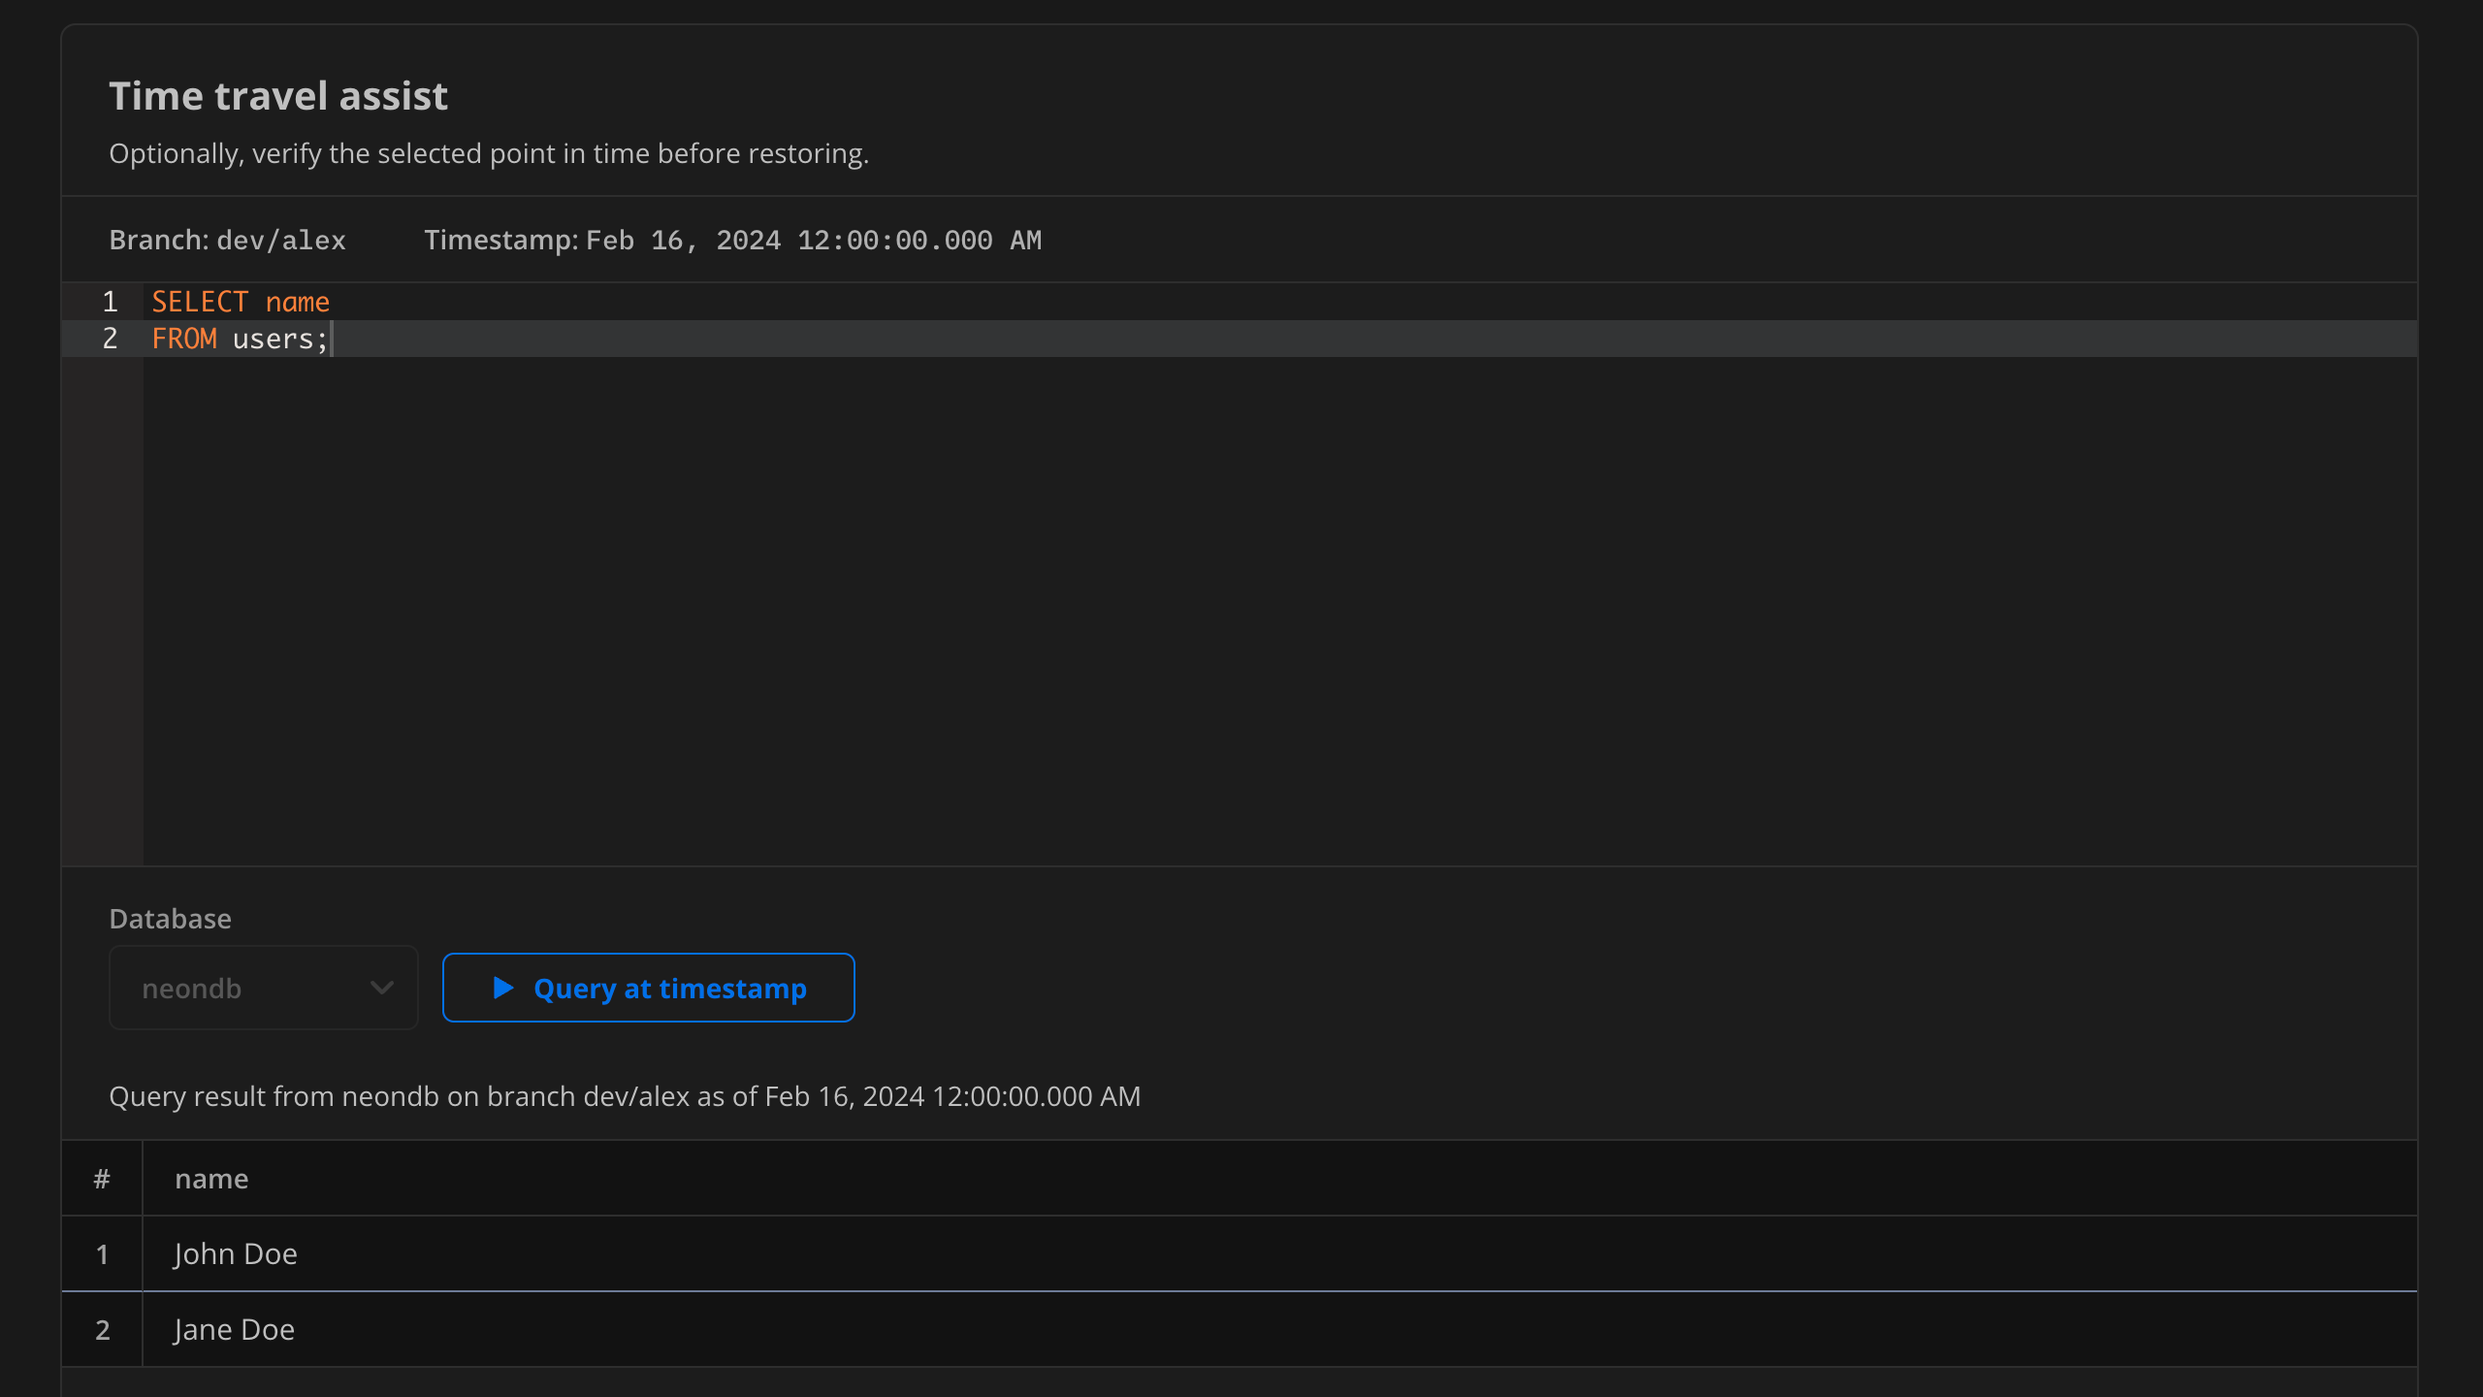
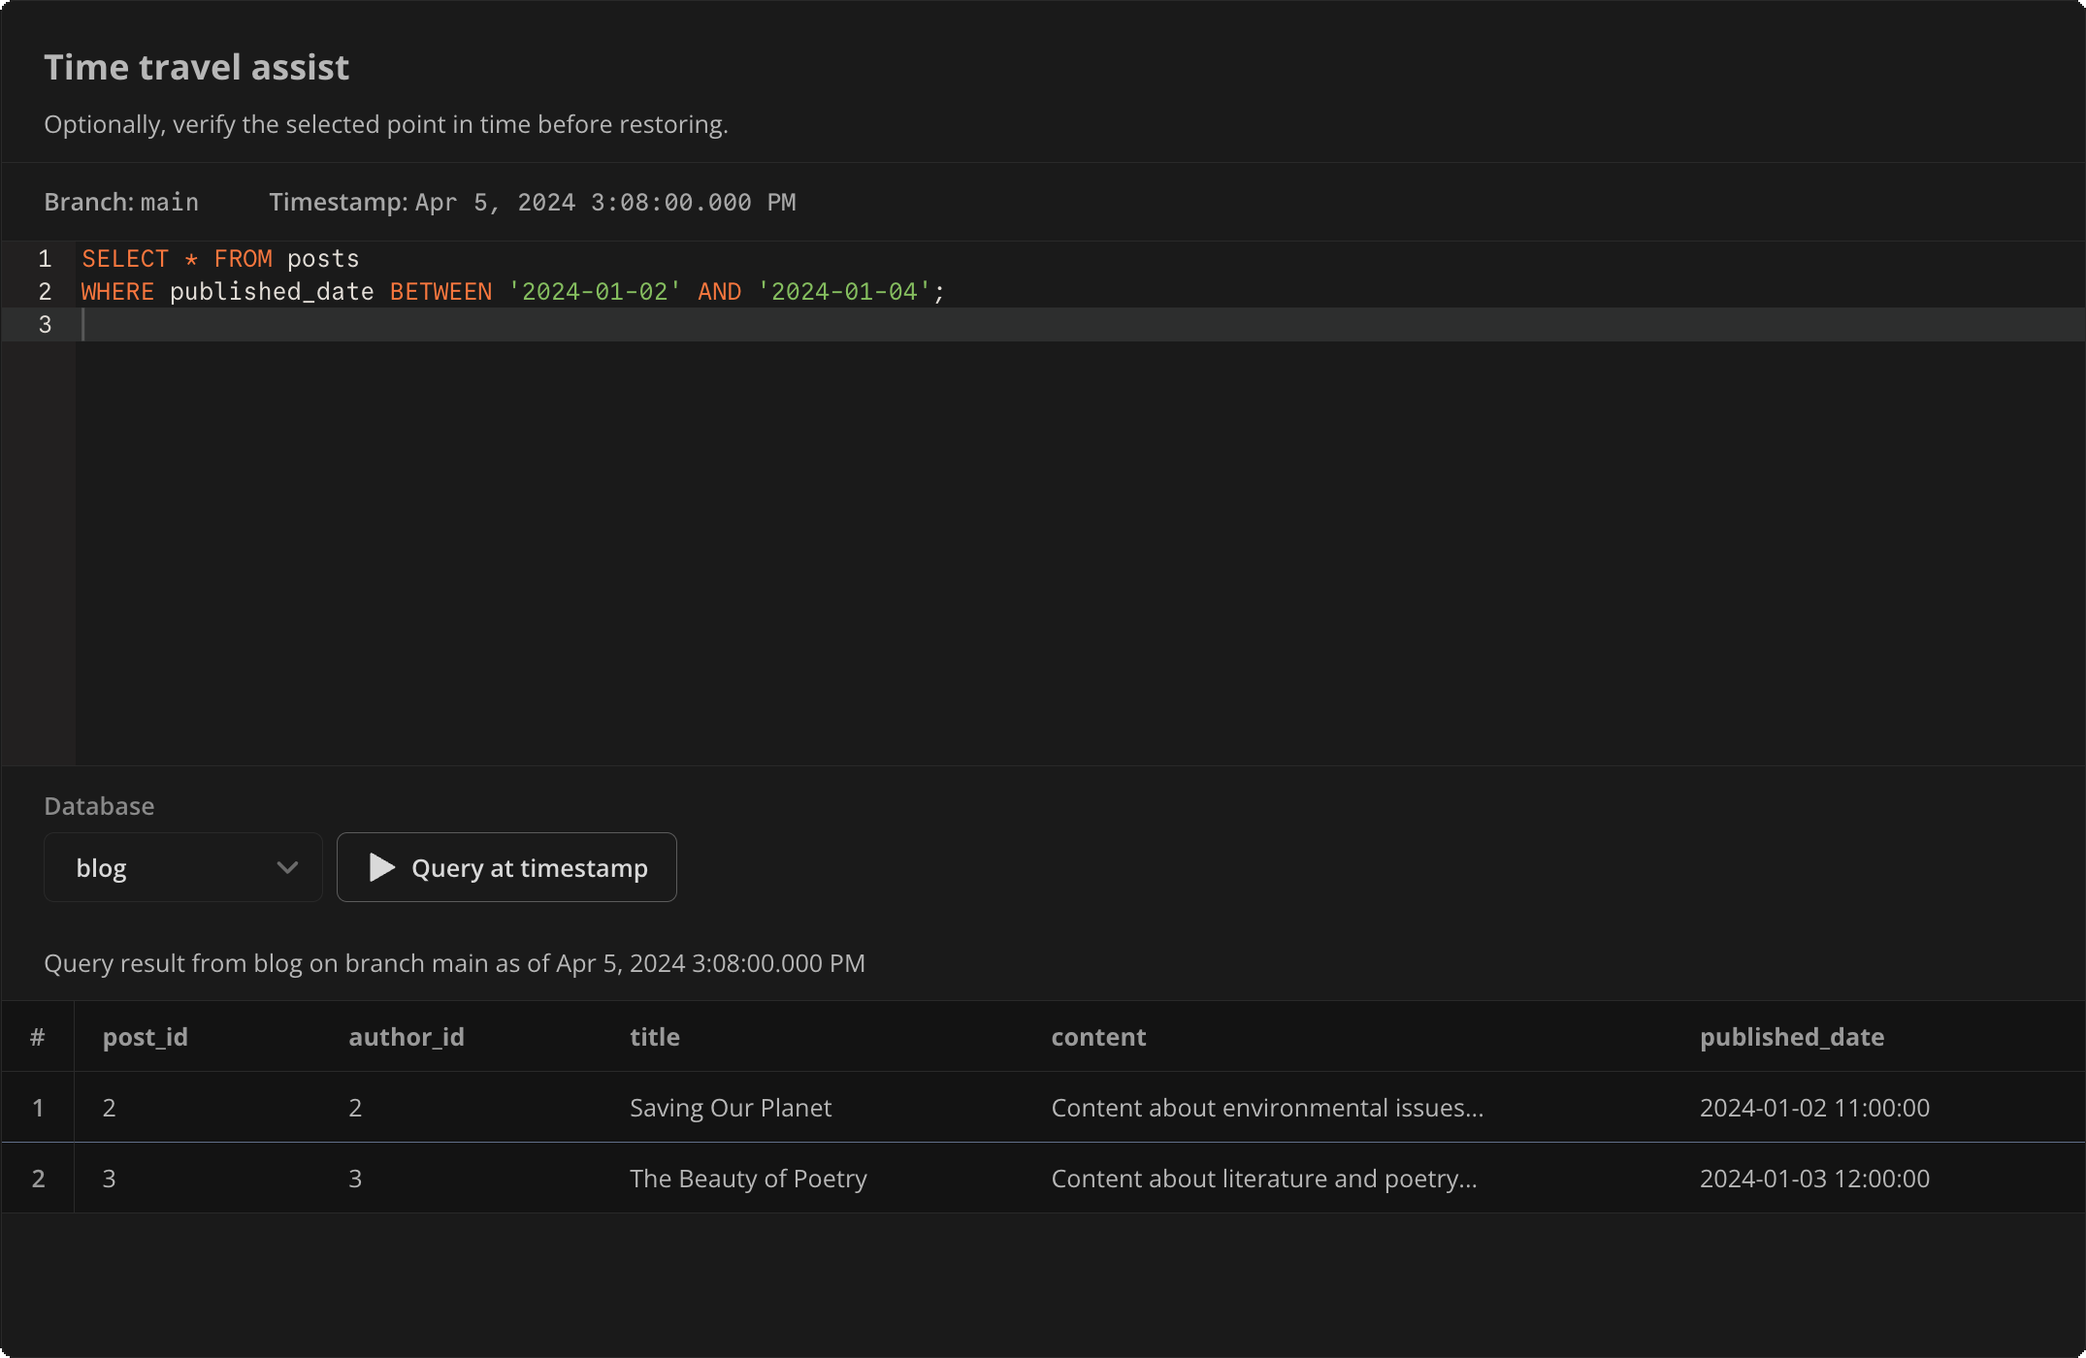
docs: time travel assist
Added time travel via SQL Editor.

diff --git a/content/docs/guides/time-travel-assist.md b/content/docs/guides/time-travel-assist.md
@@ -4,24 +4,16 @@ subtitle: Learn how to query point-in-time connections against your data's histo
 enableTableOfContents: true
 ---
 
-To help troubleshoot your data's history, you can use Time Travel Assist to connect to any selected point in time within your history retention window and then run queries against that connection. 
+To help troubleshoot your data's history, Time Travel Assist lets you connect to any selected point in time within your history retention window and then run queries against that connection.
 
 You can use Time Travel Assist from two places in the Neon Console:
 
 - **SQL Editor** &#8212; Time Travel is built into the SQL editor letting you switch between queries of your current data and previous iterations of your data in the same view.
-- **Restore** &#8212; Time Travel Assist is also built into the Branch Restore flow where it can help you make sure ou've targeted the correct restore point before you restore a branch.
+- **Restore** &#8212; Time Travel Assist is also built into the Branch Restore flow where it can help you make sure you've targeted the correct restore point before you restore a branch.
 
 ## How Time Travel Assist works
 
-It's a good idea to run this kind of query to make sure you've targeted the correct restore point before you restore a branch.
-
-The restore operation and Time Travel Assist are meant to work together. When you select a branch and timestamp, you can either use that selection as your restore point or as the point in time connection to query against.
-
-![Time travel assist](/docs/guides/branch_time_travel.png)
-
-### Ephemeral endpoints
-
-Time travel assist leverages Neon's instant branching capability to create a temporary branch and compute endpoint at the selected point in time, which is automatically removed once you are done querying against this point-in-time connection. The compute endpoints are ephemeral: they are not listed on the **Branches** page or in a CLI or API list branches request.
+Time Travel Assist leverages Neon's instant branching capability to create a temporary branch and compute endpoint at the selected point in time, which is automatically removed once you are done querying against this point-in-time connection. The compute endpoints are ephemeral: they are not listed on the **Branches** page or in a CLI or API list branches request.
 
 However, you can see the history of operations related to the creation and deletion of the ephemeral branch on the **Operations** page:
 
@@ -34,25 +26,91 @@ However, you can see the history of operations related to the creation and delet
 
 The ephemeral endpoints are created according to your configured [default compute size](/docs/manage/projects#reset-the-default-compute-size). An ephemeral endpoint remains active for as long as you keep running queries against it. After 10 seconds of inactivity, the timeline is deleted and the endpoint is removed.
 
-## Using Time Travel Assist
+### History retention
 
-Here is how to use the Time Travel Assist SQL editor:
+You are only able to run Time Travel queries that fall within your history retention window, which starts at 24 hours for Free Tier users and up to 30 days for Scale plan users.
 
+You are unable to select a time outside your current retention window.
+
+To change your retention period, see [Configure history retention](/docs/manage/projects#configure-history-retention).
+
+### Data integrity
+
+Time Travel Assist only allows non-destructive read-only queries. You cannot alter historical data in any way. If you try to run any query that could alter historical data, you will get an error message like the following:
+
+![time travel error message](/docs/guides/time_travel_error.png "no-border")
+
+### Time Travel with the SQL editor
+
+Time Travel in the SQL Editor offers a non-destructive way to explore your database's historical data through read-only queries. By toggling Time Travel in the editor, you switch from querying your current data to querying against a selected point within your history retention window.
+
+You can use this feature to help with scenarios like:
+
+- Investigating anomolies
+- Assessing the impact of new features
+- Troubleshooting
+- Compliance auditing
+
+Here's an example of a completed Time Travel query.
+
+![time travel from sql editor](/docs/guides/time_travel_sql.png)
+
+### Time Travel Assist with Branch Restore
+
+Time Travel Assist is also available from the **Restore** page, as part of the [Branch Restore](/docs/guides/branch-restore) feature. Before completing a restore operation, it's a good idea to use Time Travel Assist to verify that you've targetted the correct restore point.
+
+An SQL editor is built into the **Restore** page for this purpose. When you make your branch and timestamp selection to restore a branch, this selection can also be used as the point-in-time connection to query against.
+
+Here is an example of a completed query:
+
+![Time travel assist](/docs/guides/time_travel_assist.png)
+
+## How to use Time Travel Assist
+
+Here is how to use the Time Travel Assist from both the **SQL Editor** and from the **Restore** page:
+
+<Tabs labels={["SQL Editor","Branch Restore"]}>
+
+<TabItem>
+
+1. In the Neon Console, open the **SQL Editor**.
+1. Use the **Time Travel** toggle to enable querying against an earlier point in time.
+
+    ![Time Travel toggle](/docs/guides/time_travel_toggle.png)
+
+1. Use the Date & Time selector to choose a point within your history retention window.
+1. Write your read-only query in the editor, then click **Run**. You don't have to include time parameters in the query; the query is automatically targeted to your selected timestamp.
+</TabItem>
+
+<TabItem>
+
+1. In the Neon Console, go to **Restore**.
 1. Select the branch you want to query against, then select a timestamp, the same as you would to [Restore a branch](#restore-a-branch-to-an-earlier-state).
 
+    ![time travel selection](/docs/guides/time_travel_restore_select.png "no-border")
+
     This makes the selection for Time Travel Assist. Notice the updated fields above the SQL editor show the **branch** and **timestamp** you just selected.
-    ![Time travel assist](/docs/guides/time_travel_assist.png)
-  
+
+    ![Time travel assist](/docs/guides/time_travel_show_selected.png)
+
 1. Check that you have the right database selected to run your query against. Use the database selector under the SQL editor to switch to a different database for querying against.
+
+    ![time travel select db](/docs/guides/time_travel_db_select.png)
+
 1. Write your read-only query in the editor, then click **Query at timestamp** to run the query. You don't have to include time parameters in the query; the query is automatically targeted to your selected timestamp.
 
-If your query is successful, you will see a table of results under the editor.
+    If your query is successful, you will see a table of results under the editor.
 
-Depending on your query and the selected timestamp, instead of a table of results, you might see different error messages like:
-| Error                | Explanation             |
-|----------------------|-------------------------|
-| If you query a timestamp in the future         | Console request failed with 400 Bad Request: timestamp [timestamp] is in the future, try an older timestamp |
-| If you query a timestamp from before your project was created | Console request failed with 400 Bad Request: parent timestamp [timestamp] is earlier than the project creation timestamp [timestamp], try a more recent timestamp |
-| If you query from earlier than your history retention window | Console request failed with 400 Bad Request: timestamp [timestamp] recedes your project's history retention window of 168h0m0s, try a more recent timestamp |
+    ![time travel results](/docs/guides/time_travel_results.png)
 
-Adjust your selected timestamp accordingly.
+</TabItem>
+</Tabs>
+
+## Billing considerations
+
+The ephemeral endpoints used to run your Time Travel Assist queries do contribute to your consumption usage totals for the billing period, like any other active endpoint that consumes resources.
+
+A couple of details to note:
+
+- The endpoints are shortlived. They are suspended 10 seconds after you stop querying.
+- Since these endpoints are created according to your default compute size (which applies to all new branch computes you create), you may want to reduce this default if you're performing a lot of time-travel queries for troubleshooting.

diff --git a/content/docs/guides/branch-restore.md b/content/docs/guides/branch-restore.md
@@ -74,26 +74,9 @@ Similar to the manual restore operation using the Neon Console and API described
 
 ### Time Travel Assist
 
-To help troubleshoot your data's history, you can use Time Travel Assist to connect to any selected point in time within your history retention window and then run queries against that connection. It's a good idea to run this kind of query to make sure you've targeted the correct restore point before you restore a branch.
+Use Time Travel Assist to make sure you've targetted the correct restore point before you restore your branch.
 
-The restore operation and Time Travel Assist are meant to work together. When you select a branch and timestamp, you can either use that selection as your restore point or as the point in time connection to query against.
-
-![Time travel assist](/docs/guides/branch_time_travel.png)
-
-#### Ephemeral endpoints
-
-Time travel assist leverages Neon's instant branching capability to create a temporary branch and compute endpoint at the selected point in time, which is automatically removed once you are done querying against this point-in-time connection. The compute endpoints are ephemeral: they are not listed on the **Branches** page or in a CLI or API list branches request.
-
-However, you can see the history of operations related to the creation and deletion of the ephemeral branch on the **Operations** page:
-
-- start_compute
-- create_branch
-- delete_timeline
-- suspend_compute
-
-#### How long do ephemeral endpoints remain active
-
-The ephemeral endpoints are created according to your configured [default compute size](/docs/manage/projects#reset-the-default-compute-size). An ephemeral endpoint remains active for as long as you keep running queries against it. After 10 seconds of inactivity, the timeline is deleted and the endpoint is removed.
+See [Time Travel Assist](/docs/guides/time-travel-assist) to learn more.
 
 ## How to use branch restore
 
@@ -252,48 +235,15 @@ curl --request POST \ // [!code word:br-damp-smoke-91135977]
 </TabItem>
 </Tabs>
 
-To make sure you choose the right restore point, we encourage you to use Time Travel Assist _before_ running a restore job, but the backup branch is there if you need it.
+To make sure you choose the right restore point, we encourage you to use [Time Travel Assist](/docs/guides//time-travel-assist) before running a restore job, but the backup branch is there if you need it.
 If you do need to revert your changes, you can [Reset from parent](/docs/manage/branches#reset-a-branch-from-parent) since that is your branch's relationship to the restore point backup.
-
-### Using Time Travel Assist
-
-Here is how to use the Time Travel Assist SQL editor:
-
-1. Select the branch you want to query against, then select a timestamp, the same as you would to [Restore a branch](#restore-a-branch-to-an-earlier-state).
-
-    This makes the selection for Time Travel Assist. Notice the updated fields above the SQL editor show the **branch** and **timestamp** you just selected.
-    ![Time travel assist](/docs/guides/time_travel_assist.png)
-  
-1. Check that you have the right database selected to run your query against. Use the database selector under the SQL editor to switch to a different database for querying against.
-1. Write your read-only query in the editor, then click **Query at timestamp** to run the query. You don't have to include time parameters in the query; the query is automatically targeted to your selected timestamp.
-
-If your query is successful, you will see a table of results under the editor.
-
-Depending on your query and the selected timestamp, instead of a table of results, you might see different error messages like:
-| Error                | Explanation             |
-|----------------------|-------------------------|
-| If you query a timestamp in the future         | Console request failed with 400 Bad Request: timestamp [timestamp] is in the future, try an older timestamp |
-| If you query a timestamp from before your project was created | Console request failed with 400 Bad Request: parent timestamp [timestamp] is earlier than the project creation timestamp [timestamp], try a more recent timestamp |
-| If you query from earlier than your history retention window | Console request failed with 400 Bad Request: timestamp [timestamp] recedes your project's history retention window of 168h0m0s, try a more recent timestamp |
-
-Adjust your selected timestamp accordingly.
 
 ## Billing considerations
 
-There are minimal impacts to billing from the branch restore and Time Travel Assist features.
+There are minimal impacts to billing from the branch restore and Time Travel Assist features:
 
-### Restore from history (billing)
-
-Restoring a branch to its own history adds to your number of branches &#8212; due to the restore_backup branch &#8212; but since they do not have any compute endpoint attached, they do not add to any consumption costs.
-
-### Time travel Assist (billing)
-
-The ephemeral endpoints used to run your Time Travel Assist queries do contribute to your consumption usage totals for the billing period, like any other active endpoint that consumes resources.
-
-A couple of details to note:
-
-- The endpoints are shortlived. They are suspended 10 seconds after you stop querying.
-- Since these endpoints are created according to your default compute size (which applies to all new branch computes you create),  you may want to reduce this default if you're performing a lot of time-travel queries for troubleshooting.
+- **Branch Restore** &#8212;  &#8212; The backups created when you restore a branch do add to your total number of branches, but since they do not have any compute endpoint attached they do not add to any consumption costs.
+- **Time Travel Assist** &#8212; Costs related to Time Travel queries are minimal. See [Billing considerations](/docs/guides/time-travel-assist#billing-considerations).
 
 ## Limitations
 

diff --git a/content/docs/guides/branching-intro.md b/content/docs/guides/branching-intro.md
@@ -59,13 +59,15 @@ Test potentially destructive or performance-impacting queries before your run th
 
 </DetailIconCards>
 
-## Data recovery
+## Data recovery and audits
 
 Recover lost data or track down issues by restoring a branch to its history, or just create a point-in-time branch for historical analysis or any other reason.
 
 <DetailIconCards>
 
 <a href="/docs/guides/branch-restore" description="Learn how to revert changes or recover lost data using Neon Branch Restore with Time Travel Assist" icon="invert">Branch Restore with Time Travel Assist</a>
+
+<a href="/docs/guides/time-travel-assist" description="Query point-in-time connections with Time Travel Assist " icon="invert">Time Travel Assist</a>
 
 </DetailIconCards>
 
